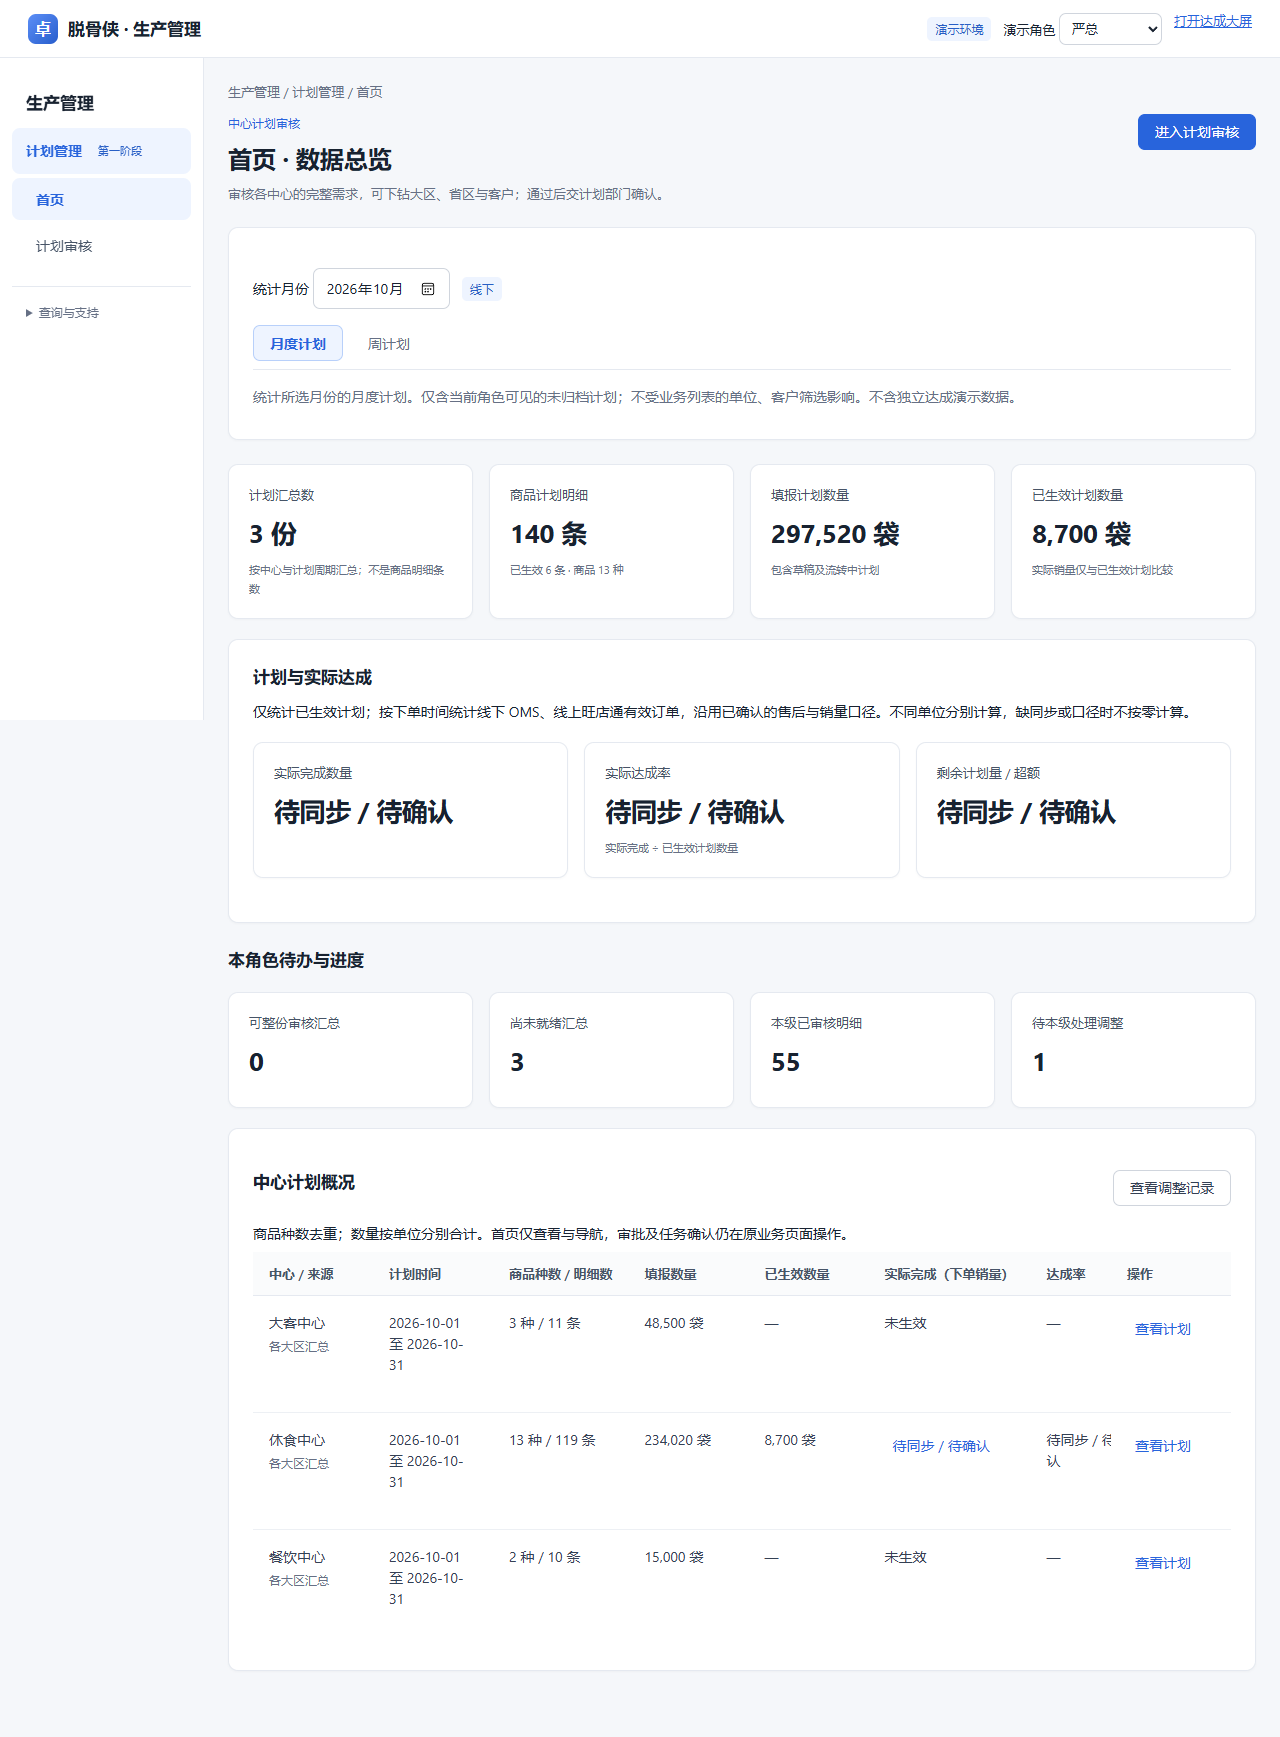
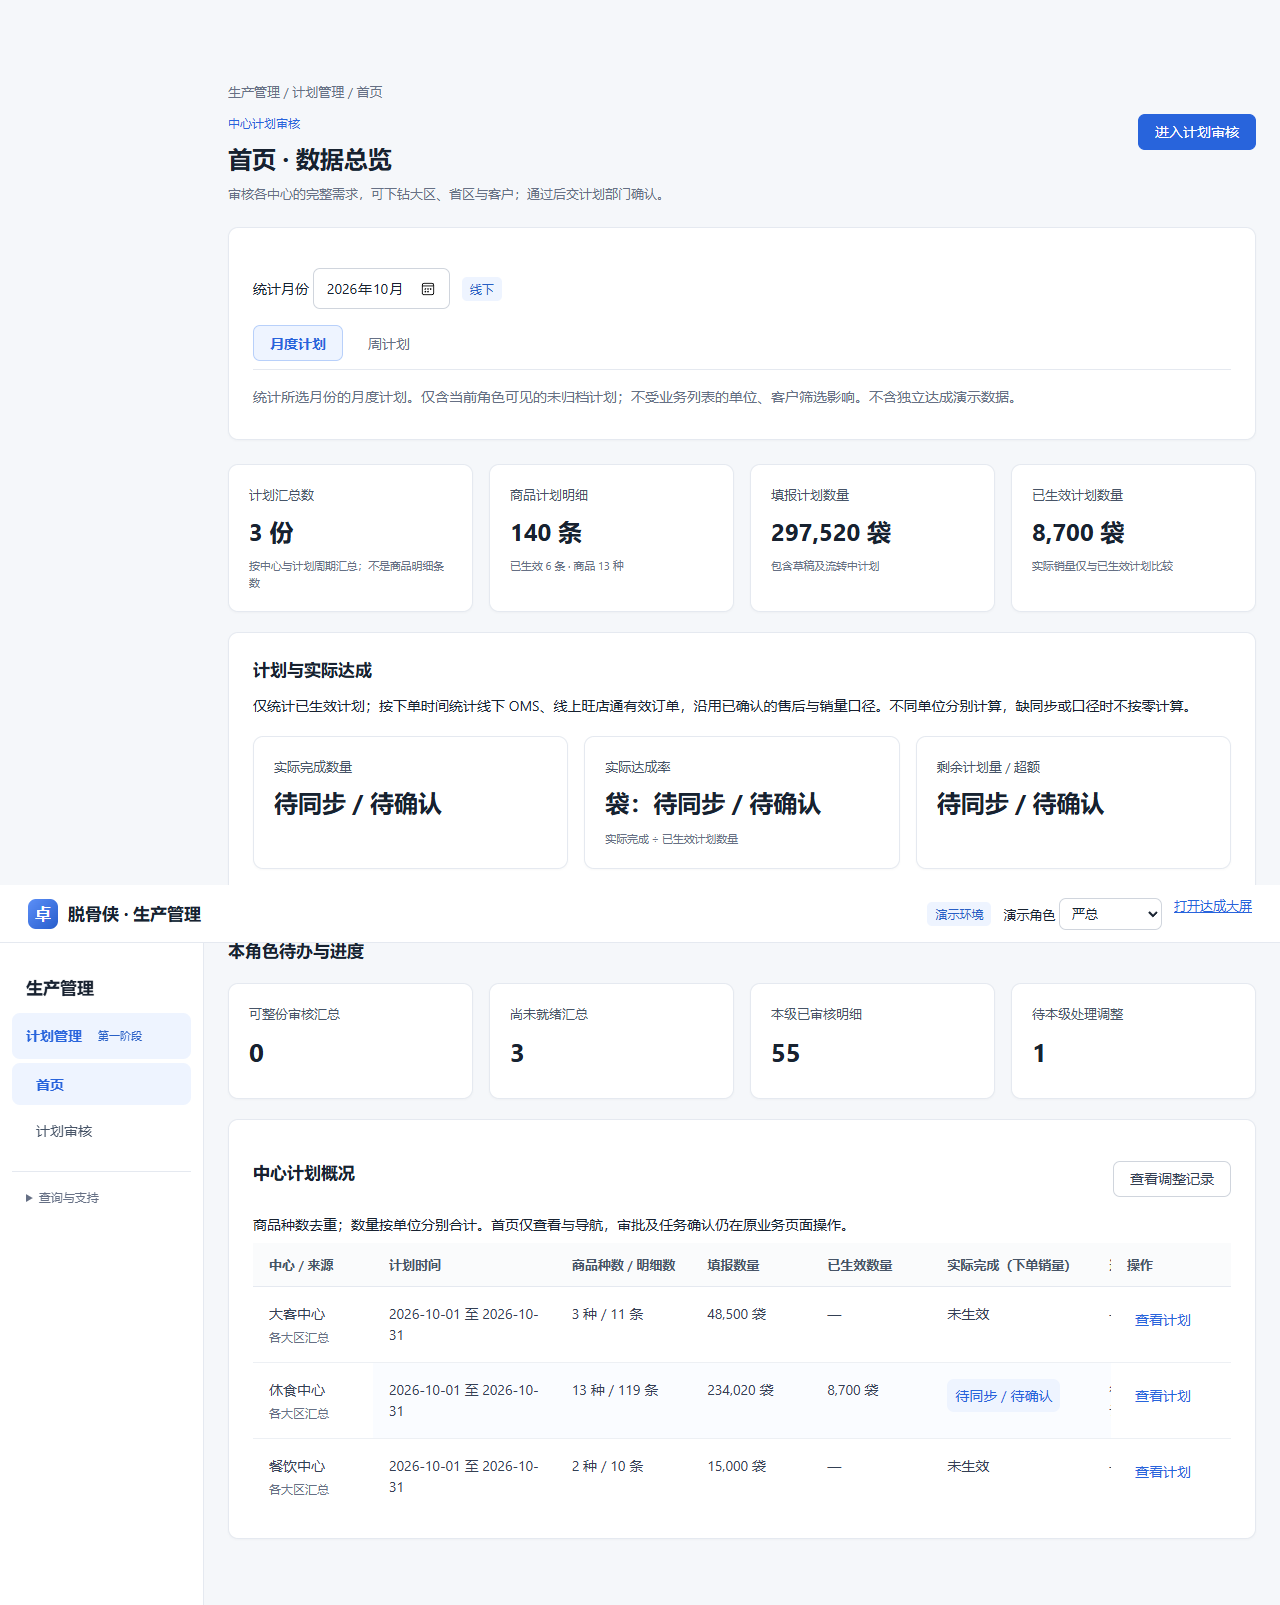
Auto sync 2026-10-14 08:33:15

diff --git a/09-设计与原型/销售计划管理/角色任务聚焦.js b/09-设计与原型/销售计划管理/角色任务聚焦.js
@@ -20,7 +20,7 @@
  const ready=g=>g.plans.every(p=>!p.rejected&&!PlanChange.pending(d,p)&&SalesPlan.chain(p)[p.stage]===role)&&!BusinessRelease.reviewGuard(d,g.plans,role),effective=p=>SalesPlan.effective(p),draft=xs.filter(p=>p.stage<0&&!p.rejected),returned=xs.filter(p=>p.rejected),pending=xs.filter(p=>!p.rejected&&p.stage>=SalesPlan.chain(p).length&&!effective(p));
  const changes=d.adjustments.filter(c=>{const p=xs.find(p=>p.id===c.plan);return p&&c.approver===role&&['待计划部门确认','待OA审批'].includes(c.status);});
  const done=xs.filter(effective),cards=admin?(role==='商品管理员'?[['商品总数',d.products.length],['启用商品',d.products.filter(p=>p.enabled).length],['停用商品',d.products.filter(p=>!p.enabled).length]]:[['已配置填报窗口',Object.keys(d.periodWindows||{}).length],['已发布填报清单',(d.coveragePeriods||[]).filter(c=>c.status==='published').length],['已确认销量口径',['offline','online'].filter(b=>d.orderPolicies[b]?.version).length]]):fill?[['草稿商品明细',draft.length],['退回待修改明细',returned.length],['流转中明细',xs.filter(p=>p.stage>=0&&!p.rejected&&!effective(p)).length],['已生效明细',done.length]]:review?[['可整份审核汇总',[...groups.values()].filter(ready).length],['尚未就绪汇总',[...groups.values()].filter(g=>!ready(g)&&g.plans.some(p=>p.rejected||p.stage<=SalesPlan.chain(p).indexOf(role))).length],['本级已审核明细',xs.filter(p=>p.history.some(h=>h.by===role&&/审核/.test(h.action)&&!/调整|加急/.test(h.action))).length],['待本级处理调整',changes.length]]:[['待确认新计划',pending.length],['待确认调整',changes.length],['已生效明细',done.length],['来源商品种数',new Set(xs.map(p=>p.product)).size]];
- const overview=admin?'':'<div class="metrics home-results"><div class="metric">计划汇总数<strong>'+groups.size+' 份</strong><small>按'+label+'与计划周期汇总；不是商品明细条数</small></div><div class="metric">商品计划明细<strong>'+xs.length+' 条</strong><small>已生效 '+done.length+' 条 · 商品 '+new Set(xs.map(p=>p.product)).size+' 种</small></div><div class="metric">填报计划数量<strong>'+quantity(xs)+'</strong><small>包含草稿及流转中计划</small></div><div class="metric">已生效计划数量<strong>'+quantity(done)+'</strong><small>实际销量仅与已生效计划比较</small></div></div><section class="card home-achievement"><h2>计划与实际达成</h2><p>仅统计已生效计划；按下单时间统计线下 OMS、线上旺店通有效订单，沿用已确认的售后与销量口径。不同单位分别计算，缺同步或口径时不按零计算。</p><div class="metrics"><div class="metric">实际完成数量<strong>'+PlanAchievement.cell(d,done,'actual')+'</strong></div><div class="metric">实际达成率<strong>'+PlanAchievement.cell(d,done,'rate')+'</strong><small>实际完成 ÷ 已生效计划数量</small></div><div class="metric">剩余计划量 / 超额<strong>'+PlanAchievement.cell(d,done,'remaining')+'</strong></div></div></section>';
+ const overview=admin?'':'<div class="metrics home-results"><div class="metric">计划汇总数<strong>'+groups.size+' 份</strong><small>按'+label+'与计划周期汇总；不是商品明细条数</small></div><div class="metric">商品计划明细<strong>'+xs.length+' 条</strong><small>已生效 '+done.length+' 条 · 商品 '+new Set(xs.map(p=>p.product)).size+' 种</small></div><div class="metric">填报计划数量<strong>'+quantity(xs)+'</strong><small>包含草稿及流转中计划</small></div><div class="metric">已生效计划数量<strong>'+quantity(done)+'</strong><small>实际销量仅与已生效计划比较</small></div></div><section class="card home-achievement"><h2>计划与实际达成</h2><p>仅统计已生效计划；按下单时间统计线下 OMS、线上旺店通有效订单，沿用已确认的售后与销量口径。不同单位分别计算，缺同步或口径时不按零计算。</p><div class="metrics"><div class="metric">实际完成数量<strong>'+PlanAchievement.cell(d,done,'actual')+'</strong></div><div class="metric">实际达成率<strong>'+(done.length?PlanAchievement.aggregate(d,done).map(g=>E(g.unit)+'：'+PlanAchievement.cell(d,g.plans,'rate')).join('<br>'):'无已生效计划')+'</strong><small>实际完成 ÷ 已生效计划数量</small></div><div class="metric">剩余计划量 / 超额<strong>'+PlanAchievement.cell(d,done,'remaining')+'</strong></div></div></section>';
  const target=fill?'plans':review?'review':role==='计划部门'?'acceptance':role==='商品管理员'?'products':'businessRules',action=fill?'进入计划填报':review?'进入计划审核':role==='计划部门'?'进入任务确认':role==='商品管理员'?'进入商品管理':'进入规则配置';
  document.getElementById('content').classList.add('role-home');document.getElementById('content').innerHTML='<section class="task-context"><div><div class="task-eyebrow">'+E(roles[role].name)+'</div><h1>首页 · 数据总览</h1><p>'+E(roles[role].goal)+'</p></div><button class="primary" id="homePrimary">'+action+'</button></section>'+(admin?'':'<section class="card"><div class="row"><label>统计月份 <input id="homeMonth" type="month" value="'+E(homeMonth)+'"></label>'+(role==='计划部门'?'<label>业务 <select id="homeBusiness"><option value="offline">线下</option><option value="online">线上</option></select></label>':'<span class="tag">'+(business==='online'?'线上':'线下')+'</span>')+'</div><div class="summary-tabs" aria-label="计划类型"><button data-home-kind="month" aria-pressed="'+(homeKind==='month')+'">月度计划</button><button data-home-kind="week" aria-pressed="'+(homeKind==='week')+'">周计划</button></div><p class="muted">'+(homeKind==='week'?'统计开始日期在所选月份的周计划，不与月度相加。':'统计所选月份的月度计划。')+'仅含当前角色可见的未归档计划；不受业务列表的单位、客户筛选影响。不含独立达成演示数据。</p></section>')+overview+'<h2 class="home-todo-title">'+(admin?'配置统计':'本角色待办与进度')+'</h2><div class="metrics">'+cards.map(([title,n])=>'<div class="metric">'+title+'<strong>'+n+'</strong></div>').join('')+'</div>'+(admin?'<section class="card"><h2>管理职责</h2><p>'+E(roles[role].goal)+'</p><p>管理统计为全局配置数量，不代表本期填报完成率。</p></section>':'<section class="card"><div class="row space"><h2>'+label+'计划概况</h2><button id="homeAdjustments">查看调整记录</button></div><p>商品种数去重；数量按单位分别合计。首页仅查看与导航，审批及任务确认仍在原业务页面操作。</p><div class="table-wrap"><table><thead><tr><th>'+label+' / 来源</th><th>计划时间</th><th>商品种数 / 明细数</th><th>填报数量</th><th>已生效数量</th>'+PlanAchievement.headings()+'<th>当前进度</th><th>操作</th></tr></thead><tbody>'+[...groups.values()].map((g,i)=>'<tr><td>'+E(g.name)+(business==='offline'?'<small>'+E(key==='center'?'各大区汇总':g.plans[0].center+' / '+g.plans[0].area)+'</small>':'')+'</td><td>'+E(g.start+' 至 '+g.end)+'</td><td>'+new Set(g.plans.map(p=>p.product)).size+' 种 / '+g.plans.length+' 条</td><td>'+quantity(g.plans)+'</td><td>'+quantity(g.plans.filter(effective))+'</td>'+ (g.plans.some(effective)?PlanAchievement.cells(d,g.plans.filter(effective)):'<td>未生效</td><td>—</td><td>—</td>')+'<td>'+E(review?(ready(g)?'可整份审核':BusinessRelease.reviewGuard(d,g.plans,role)||[...new Set(g.plans.map(p=>SalesPlan.status(d,p)))].join(' / ')):[...new Set(g.plans.map(p=>SalesPlan.status(d,p)))].join(' / '))+'</td><td><button data-home-group="'+i+'">查看计划</button></td></tr>').join('')+' </tbody></table></div>'+(!xs.length?'<div class="empty">当前月份暂无可见计划。可切换月份，或进入业务页面查看和填报。</div>':'')+'</section>');
  const go=(view,g)=>{const f=a.filters();delete f.demoCase;delete f.achievementDemo;Object.assign(f,{business,kind:homeKind,cycle:homeKind==='month'?homeMonth:(g?.start||homeMonth+'-01'),center:'all',area:'all',province:'all',channel:'all'});if(g){const p=g.plans[0];f.unit=p.unit;if(business==='online')f.channel=p.channel;else{f.center=p.center;if(key!=='center')f.area=p.area;if(['province','customer'].includes(key))f.province=p.province;}}a.setView(view);};

diff --git a/09-设计与原型/销售计划管理/销售计划管理.css b/09-设计与原型/销售计划管理/销售计划管理.css
@@ -81,3 +81,6 @@ body:not(.screen) header{height:auto;min-height:58px}#salesPerson{max-width:360p
 .role-home table td{white-space:normal;overflow:visible;text-overflow:clip;min-width:120px;max-width:320px;overflow-wrap:anywhere}
 .role-home .metrics{grid-template-columns:repeat(auto-fit,minmax(200px,1fr))}
 @media(max-width:480px){.role-home .metrics{grid-template-columns:1fr}.role-home .task-context{align-items:stretch}.role-home .task-context button{width:100%}}
+.role-home .home-results strong,.role-home .home-achievement strong{overflow-wrap:anywhere;font-size:24px}
+.role-home .home-results small{display:block;margin-top:8px;line-height:1.6}
+.role-home .table-wrap table{min-width:1500px}
